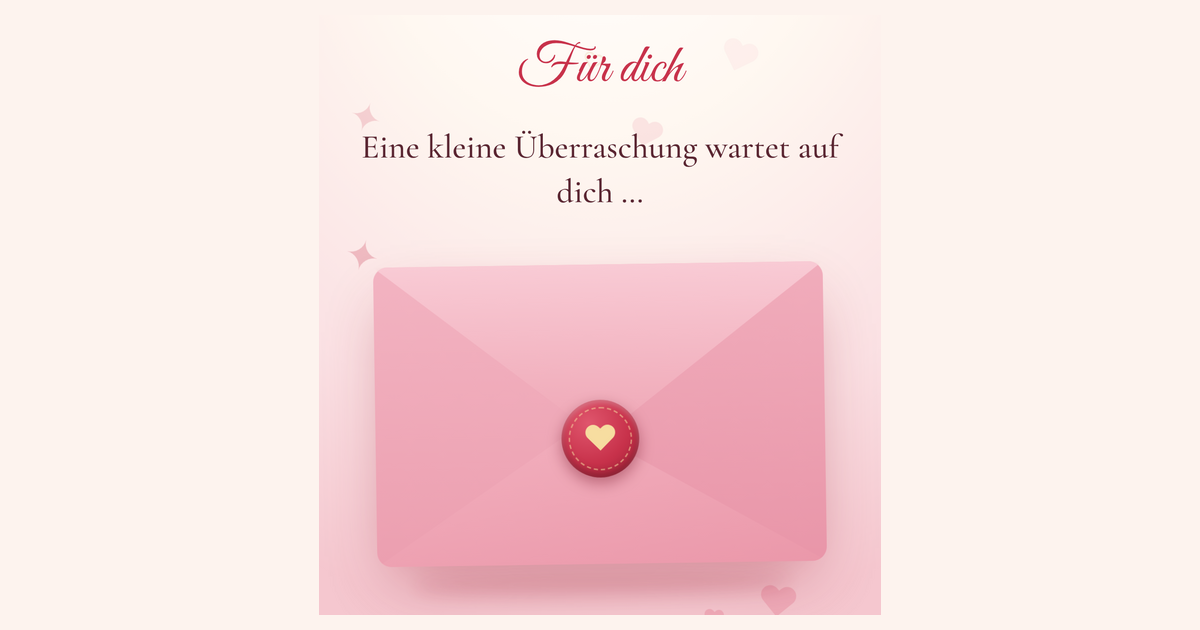
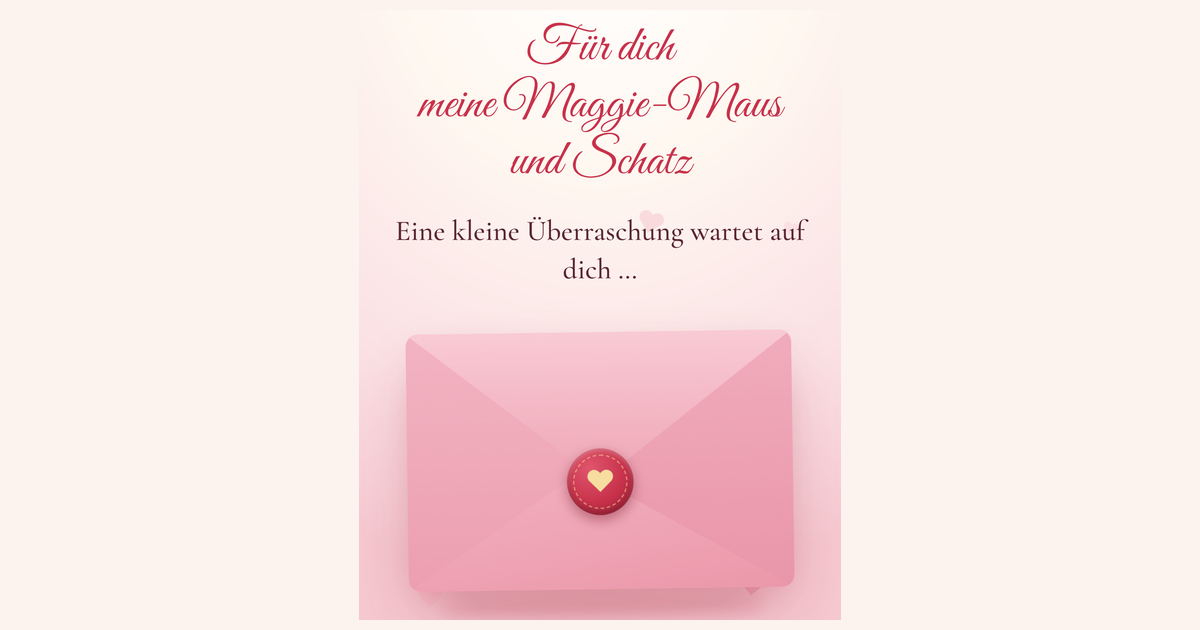
Persönliche Überschrift

diff --git a/index.html b/index.html
@@ -5,8 +5,8 @@
 <meta name="viewport" content="width=device-width, initial-scale=1, viewport-fit=cover">
 <meta name="theme-color" content="#f7d6dc">
 <meta name="robots" content="noindex, nofollow">
-<title>Für dich ♥</title>
-<meta property="og:title" content="Für dich ♥">
+<title>Für dich meine Maggie-Maus und Schatz ♥</title>
+<meta property="og:title" content="Für dich meine Maggie-Maus und Schatz ♥">
 <meta property="og:description" content="Eine kleine Überraschung wartet auf dich …">
 <meta property="og:type" content="website">
 <meta property="og:image" content="https://timstrait.github.io/Test/preview.png">
@@ -125,7 +125,7 @@ input[type=text]:focus{border-color:var(--rose2);box-shadow:0 0 0 4px rgba(233,1
 <main>
   <!-- 1: Envelope -->
   <section class="screen active" id="s-start">
-    <h1 style="font-size:2.4rem">Für dich</h1>
+    <h1 style="font-size:2.5rem">Für dich<br>meine Maggie-Maus<br>und Schatz</h1>
     <p class="lead">Eine kleine Überraschung wartet auf dich …</p>
     <div class="env-wrap" id="envelope" role="button" tabindex="0" aria-label="Umschlag öffnen">
       <div class="env-shadow"></div>
